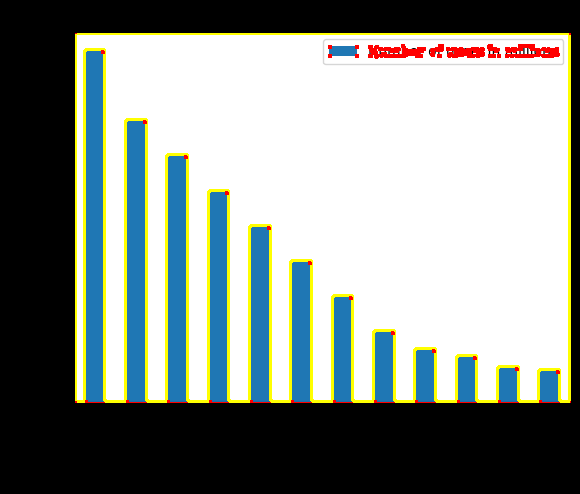
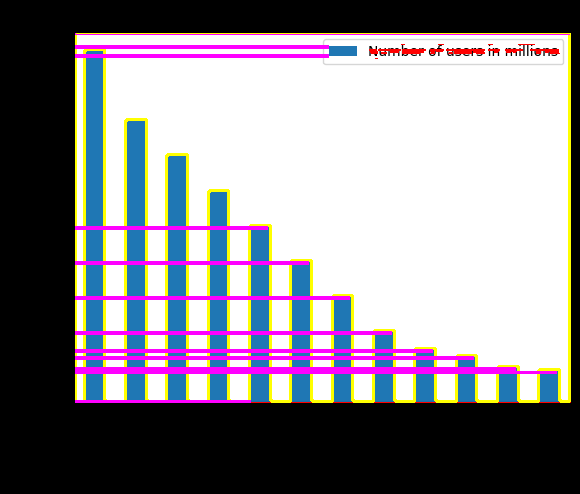
y value

diff --git a/New folder (2)/ReadGraphOCR.py b/New folder (2)/ReadGraphOCR.py
@@ -47,12 +47,11 @@ def dataOCR(left_line, bottom_line, top_border_line):
     title_txts = []
     title_scores = []
     for idx in range(len(result)):
+        global res
         res = result[idx]
-        
+        print(res)
         for line in res:
-            #print(line)
             box = line[0]
-            print(box)
             all_boxes.append(box)
             all_txts.append(line[1][0])
             all_scores.append(line[1][1])
@@ -91,6 +90,7 @@ def dataOCR(left_line, bottom_line, top_border_line):
     im_show = draw_ocr(image, title_boxes, title_txts, title_scores, font_path='arial_narrow_7.ttf')
     im_show = Image.fromarray(im_show)
     im_show.save('resulttop.jpg')
+    
 
 '''
 def drawLine():
@@ -240,7 +240,37 @@ def axisLines(file_Name, i):
                 if dst[i, j] > 0.01 * dst.max():
                     if x <= j <= x + w and y <= i <= y + h:
                         img[i, j] = [0, 0, 255]
+                        print(type(i))
                         #cv2.line(img, (j, i), (j-2000, i), (255, 0, 255), 1) #Draw the horizontal pink line
+                        # Check if the starting point of the line is not inside the bounding boxes
+                        line_start_point = (j, i)
+                        inside_box = False
+                        for l in range(len(res)):
+                            x_min, y_min = res[l][0][0][0], res[l][0][0][1]
+                            x_max, y_max = res[l][0][2][0], res[l][0][2][1]
+                            if x_min <= j <= x_max and y_min <= i <= y_max:
+                                inside_box = True
+                                break
+                        if not inside_box:
+                            cv2.line(img, line_start_point, (j-2000, i), (255, 0, 255), 1) #Draw the horizontal pink line
+
+
+                            # i is the y value in pixels
+                            #Need to get the y position of the intersection
+
+                            #slope1 - bottom line slope
+                            #slope2 - left line slope
+
+                            #x1,y1 and x2, y2 are the 2 ends of the bottom line
+                            #x3, y3 and x4, y4 are the 2 ends of the left line
+
+                            x = (y1 + slope1*x1 - y3 + slope2*y3 - slope2*y1 - slope1*slope2*x1)/(slope1*(1 - slope2))
+                            
+
+                            print(float(x), "x")
+                            
+                            
+                            break
             
         res_final = cv2.bitwise_and(img, img, mask=cv2.bitwise_not(mask))
         cv2.imwrite("result.png", res_final)
